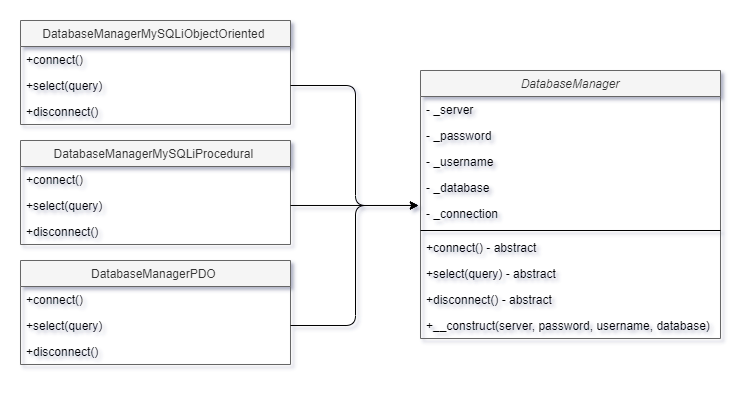
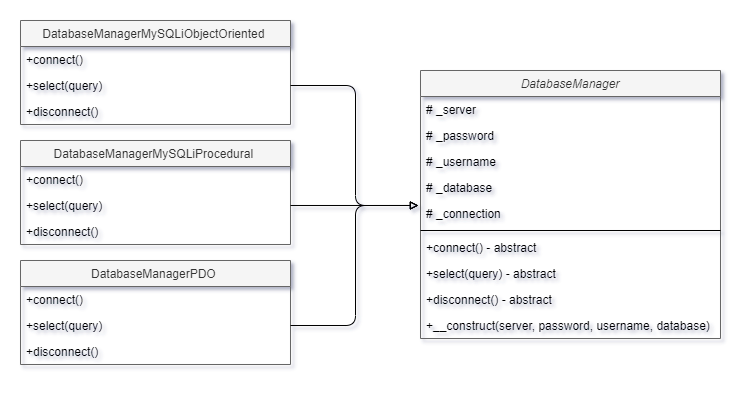
Vježba 3

diff --git a/vjezba-1-3/src/views/vjezba-2.vue b/vjezba-1-3/src/views/vjezba-2.vue
@@ -17,9 +17,9 @@
 import { defineComponent } from "vue";
 
 export default defineComponent({
-  name: "Home",
+  name: "vjezba-2",
   setup() {
-    const content = `<div style="color: rgb(171, 178, 191); background-color: rgb(40, 44, 52); font-family: Consolas, &quot;Courier New&quot;, monospace; line-height: 19px; white-space: pre;"><div style="color: rgb(0, 0, 0); background-color: rgb(255, 255, 255); line-height: 19px;"><div><span style="color: #800000;">&lt;?php</span></div><br><div><span style="color: #008000;">/*</span></div><br><div><span style="color: #008000;">&nbsp;&nbsp;Problem&nbsp;koji&nbsp;rješava&nbsp;ovaj&nbsp;primjer&nbsp;je&nbsp;stvaranje&nbsp;veze&nbsp;na&nbsp;bazu&nbsp;podataka&nbsp;(MySQL)&nbsp;i&nbsp;dohvaćanje&nbsp;podataka&nbsp;koristeći&nbsp;različite&nbsp;ugrađene&nbsp;PHP&nbsp;funkcionalnosti.</span></div><div><span style="color: #008000;">&nbsp;&nbsp;Srž&nbsp;LSP&nbsp;principa&nbsp;je&nbsp;u&nbsp;tome&nbsp;što&nbsp;se&nbsp;svaka&nbsp;od&nbsp;tih&nbsp;klasa&nbsp;može&nbsp;koristiti&nbsp;na&nbsp;mjestu&nbsp;bazne&nbsp;bez&nbsp;ikakvih&nbsp;problema&nbsp;u&nbsp;izvođenju&nbsp;rada.</span></div><br><div><span style="color: #008000;">*/</span></div><br><div><span style="color: #0000ff;">abstract</span>&nbsp;<span style="color: #0000ff;">class</span>&nbsp;DatabaseManager&nbsp;{</div><div>&nbsp;&nbsp;<span style="color: #0000ff;">private</span>&nbsp;<span style="color: #0000ff;">string</span>&nbsp;$_server&nbsp;=&nbsp;<span style="color: #a31515;">""</span>;</div><div>&nbsp;&nbsp;<span style="color: #0000ff;">private</span>&nbsp;<span style="color: #0000ff;">string</span>&nbsp;$_password&nbsp;=&nbsp;<span style="color: #a31515;">""</span>;</div><div>&nbsp;&nbsp;<span style="color: #0000ff;">private</span>&nbsp;<span style="color: #0000ff;">string</span>&nbsp;$_username&nbsp;=&nbsp;<span style="color: #a31515;">""</span>;</div><div>&nbsp;&nbsp;<span style="color: #0000ff;">private</span>&nbsp;<span style="color: #0000ff;">string</span>&nbsp;$_database&nbsp;=&nbsp;<span style="color: #a31515;">""</span>;</div><div>&nbsp;&nbsp;<span style="color: #0000ff;">private</span>&nbsp;$_connection&nbsp;=&nbsp;<span style="color: #0000ff;">null</span>;</div><div>&nbsp;&nbsp;</div><div>&nbsp;&nbsp;<span style="color: #0000ff;">abstract</span>&nbsp;<span style="color: #0000ff;">protected</span>&nbsp;<span style="color: #0000ff;">function</span>&nbsp;connect();</div><div>&nbsp;&nbsp;<span style="color: #0000ff;">abstract</span>&nbsp;<span style="color: #0000ff;">protected</span>&nbsp;<span style="color: #0000ff;">function</span>&nbsp;select(<span style="color: #0000ff;">string</span>&nbsp;$query);</div><div>&nbsp;&nbsp;<span style="color: #0000ff;">abstract</span>&nbsp;<span style="color: #0000ff;">protected</span>&nbsp;<span style="color: #0000ff;">function</span>&nbsp;disconnect();</div><div>&nbsp;&nbsp;</div><div>&nbsp;&nbsp;<span style="color: #0000ff;">public</span>&nbsp;<span style="color: #0000ff;">function</span>&nbsp;__construct(<span style="color: #0000ff;">string</span>&nbsp;$server,&nbsp;<span style="color: #0000ff;">string</span>&nbsp;$password,&nbsp;<span style="color: #0000ff;">string</span>&nbsp;$username,&nbsp;<span style="color: #0000ff;">string</span>&nbsp;$database)&nbsp;{</div><div>&nbsp;&nbsp;&nbsp;&nbsp;<span style="color: #0000ff;">$this</span>-&gt;_server&nbsp;=&nbsp;$server;</div><div>&nbsp;&nbsp;&nbsp;&nbsp;<span style="color: #0000ff;">$this</span>-&gt;_password&nbsp;=&nbsp;$password;</div><div>&nbsp;&nbsp;&nbsp;&nbsp;<span style="color: #0000ff;">$this</span>-&gt;_username&nbsp;=&nbsp;$username;</div><div>&nbsp;&nbsp;&nbsp;&nbsp;<span style="color: #0000ff;">$this</span>-&gt;_database&nbsp;=&nbsp;$database;</div><div>&nbsp;&nbsp;}</div><div>}</div><br><div><span style="color: #0000ff;">class</span>&nbsp;DatabaseManagerMySQLiObjectOriented&nbsp;<span style="color: #0000ff;">extends</span>&nbsp;DatabaseManager&nbsp;{</div><div>&nbsp;&nbsp;<span style="color: #0000ff;">public</span>&nbsp;<span style="color: #0000ff;">function</span>&nbsp;connect()&nbsp;{</div><div>&nbsp;&nbsp;&nbsp;&nbsp;<span style="color: #0000ff;">$this</span>-&gt;_connection&nbsp;=&nbsp;<span style="color: #0000ff;">new</span>&nbsp;mysqli(<span style="color: #0000ff;">$this</span>-&gt;_server,&nbsp;<span style="color: #0000ff;">$this</span>-&gt;_username,&nbsp;<span style="color: #0000ff;">$this</span>-&gt;_password,&nbsp;<span style="color: #0000ff;">$this</span>-&gt;_database);</div><div>&nbsp;&nbsp;}</div><div>&nbsp;&nbsp;<span style="color: #0000ff;">public</span>&nbsp;<span style="color: #0000ff;">function</span>&nbsp;select(<span style="color: #0000ff;">string</span>&nbsp;$query)&nbsp;{</div><div>&nbsp;&nbsp;&nbsp;&nbsp;<span style="color: #0000ff;">return</span>&nbsp;<span style="color: #0000ff;">$this</span>-&gt;_connection-&gt;query($query);</div><div>&nbsp;&nbsp;}</div><div>&nbsp;&nbsp;<span style="color: #0000ff;">public</span>&nbsp;<span style="color: #0000ff;">function</span>&nbsp;disconnect()&nbsp;{</div><div>&nbsp;&nbsp;&nbsp;&nbsp;<span style="color: #0000ff;">$this</span>-&gt;_connection-&gt;close();</div><div>&nbsp;&nbsp;}</div><div>}</div><br><div><span style="color: #0000ff;">class</span>&nbsp;DatabaseManagerMySQLiProcedural&nbsp;<span style="color: #0000ff;">extends</span>&nbsp;DatabaseManager&nbsp;{</div><div>&nbsp;&nbsp;<span style="color: #0000ff;">public</span>&nbsp;<span style="color: #0000ff;">function</span>&nbsp;connect()&nbsp;{</div><div>&nbsp;&nbsp;&nbsp;&nbsp;<span style="color: #0000ff;">$this</span>-&gt;_connection&nbsp;=&nbsp;mysqli_connect(<span style="color: #0000ff;">$this</span>-&gt;_server,&nbsp;<span style="color: #0000ff;">$this</span>-&gt;_username,&nbsp;<span style="color: #0000ff;">$this</span>-&gt;_password,&nbsp;<span style="color: #0000ff;">$this</span>-&gt;_database);</div><div>&nbsp;&nbsp;}</div><div>&nbsp;&nbsp;<span style="color: #0000ff;">public</span>&nbsp;<span style="color: #0000ff;">function</span>&nbsp;select(<span style="color: #0000ff;">string</span>&nbsp;$query)&nbsp;{</div><div>&nbsp;&nbsp;&nbsp;&nbsp;<span style="color: #0000ff;">return</span>&nbsp;mysqli_query(<span style="color: #0000ff;">$this</span>-&gt;_connection,&nbsp;$query);</div><div>&nbsp;&nbsp;}</div><div>&nbsp;&nbsp;<span style="color: #0000ff;">public</span>&nbsp;<span style="color: #0000ff;">function</span>&nbsp;disconnect()&nbsp;{</div><div>&nbsp;&nbsp;&nbsp;&nbsp;mysqli_close(<span style="color: #0000ff;">$this</span>-&gt;_connection);</div><div>&nbsp;&nbsp;}</div><div>}</div><br><div><span style="color: #0000ff;">class</span>&nbsp;DatabaseManagerPDO&nbsp;<span style="color: #0000ff;">extends</span>&nbsp;DatabaseManager&nbsp;{</div><div>&nbsp;&nbsp;<span style="color: #0000ff;">public</span>&nbsp;<span style="color: #0000ff;">function</span>&nbsp;connect()&nbsp;{</div><div>&nbsp;&nbsp;&nbsp;&nbsp;<span style="color: #0000ff;">$this</span>-&gt;_connection&nbsp;=&nbsp;<span style="color: #0000ff;">new</span>&nbsp;PDO(<span style="color: #a31515;">"mysql:host=$this</span>-&gt;<span style="color: #a31515;">_server;dbname=$this</span>-&gt;<span style="color: #a31515;">_database"</span>,&nbsp;<span style="color: #0000ff;">$this</span>-&gt;_username,&nbsp;<span style="color: #0000ff;">$this</span>-&gt;_password);</div><div>&nbsp;&nbsp;&nbsp;&nbsp;<span style="color: #0000ff;">$this</span>-&gt;_connection-&gt;setAttribute(PDO::ATTR_ERRMODE,&nbsp;PDO::ERRMODE_EXCEPTION);</div><div>&nbsp;&nbsp;}</div><div>&nbsp;&nbsp;<span style="color: #0000ff;">public</span>&nbsp;<span style="color: #0000ff;">function</span>&nbsp;select(<span style="color: #0000ff;">string</span>&nbsp;$query)&nbsp;{</div><div>&nbsp;&nbsp;&nbsp;&nbsp;$stmt&nbsp;=&nbsp;<span style="color: #0000ff;">$this</span>-&gt;_connection-&gt;prepare($query);</div><div>&nbsp;&nbsp;&nbsp;&nbsp;$stmt-&gt;execute();</div><div>&nbsp;&nbsp;&nbsp;&nbsp;$result&nbsp;=&nbsp;$stmt-&gt;setFetchMode(PDO::FETCH_ASSOC);</div><div>&nbsp;&nbsp;&nbsp;&nbsp;<span style="color: #0000ff;">return</span>&nbsp;$result;</div><div>&nbsp;&nbsp;}</div><div>&nbsp;&nbsp;<span style="color: #0000ff;">public</span>&nbsp;<span style="color: #0000ff;">function</span>&nbsp;disconnect()&nbsp;{</div><div>&nbsp;&nbsp;&nbsp;&nbsp;<span style="color: #0000ff;">$this</span>-&gt;_connection&nbsp;=&nbsp;<span style="color: #0000ff;">null</span>;</div><div>&nbsp;&nbsp;}</div><div>}</div><br><div>$db&nbsp;=&nbsp;<span style="color: #0000ff;">new</span>&nbsp;DatabaseManagerMySQLiObjectOriented(<span style="color: #a31515;">"server"</span>,&nbsp;<span style="color: #a31515;">"password"</span>,&nbsp;<span style="color: #a31515;">"username"</span>,&nbsp;<span style="color: #a31515;">"database"</span>);</div><div>$db-&gt;connect();</div><div>$res&nbsp;=&nbsp;$db-&gt;select(<span style="color: #a31515;">"</span><span style="color: #0000ff;">SELECT</span><span style="color: #a31515;">&nbsp;</span>*<span style="color: #a31515;">&nbsp;</span><span style="color: #0000ff;">FROM</span><span style="color: #a31515;">&nbsp;users</span><span style="color: #a31515;">"</span>);</div><div>$db-&gt;disconnect();</div><br><div><span style="color: #800000;">?</span><span style="color: #800000;">&gt;</span></div></div></div>`;
+    const content = `<div style="color: rgb(171, 178, 191); background-color: rgb(40, 44, 52); font-family: Consolas, &quot;Courier New&quot;, monospace; line-height: 19px; white-space: pre;"><div style="color: rgb(0, 0, 0); background-color: rgb(255, 255, 255); line-height: 19px;"><div><span style="color: #800000;">&lt;?php</span></div><br><div><span style="color: #008000;">/*</span></div><br><div><span style="color: #008000;">&nbsp;&nbsp;Problem&nbsp;koji&nbsp;rješava&nbsp;ovaj&nbsp;primjer&nbsp;je&nbsp;stvaranje&nbsp;veze&nbsp;na&nbsp;bazu&nbsp;podataka&nbsp;(MySQL)&nbsp;i&nbsp;dohvaćanje&nbsp;podataka&nbsp;koristeći&nbsp;različite&nbsp;ugrađene&nbsp;PHP&nbsp;funkcionalnosti.</span></div><div><span style="color: #008000;">&nbsp;&nbsp;Srž&nbsp;LSP&nbsp;principa&nbsp;je&nbsp;u&nbsp;tome&nbsp;što&nbsp;se&nbsp;svaka&nbsp;od&nbsp;tih&nbsp;klasa&nbsp;može&nbsp;koristiti&nbsp;na&nbsp;mjestu&nbsp;bazne&nbsp;bez&nbsp;ikakvih&nbsp;problema&nbsp;u&nbsp;izvođenju&nbsp;rada.</span></div><br><div><span style="color: #008000;">*/</span></div><br><div><span style="color: #0000ff;">abstract</span>&nbsp;<span style="color: #0000ff;">class</span>&nbsp;DatabaseManager&nbsp;{</div><div>&nbsp;&nbsp;<span style="color: #0000ff;">protected</span>&nbsp;<span style="color: #0000ff;">string</span>&nbsp;$_server&nbsp;=&nbsp;<span style="color: #a31515;">""</span>;</div><div>&nbsp;&nbsp;<span style="color: #0000ff;">protected</span>&nbsp;<span style="color: #0000ff;">string</span>&nbsp;$_password&nbsp;=&nbsp;<span style="color: #a31515;">""</span>;</div><div>&nbsp;&nbsp;<span style="color: #0000ff;">protected</span>&nbsp;<span style="color: #0000ff;">string</span>&nbsp;$_username&nbsp;=&nbsp;<span style="color: #a31515;">""</span>;</div><div>&nbsp;&nbsp;<span style="color: #0000ff;">protected</span>&nbsp;<span style="color: #0000ff;">string</span>&nbsp;$_database&nbsp;=&nbsp;<span style="color: #a31515;">""</span>;</div><div>&nbsp;&nbsp;<span style="color: #0000ff;">protected</span>&nbsp;$_connection&nbsp;=&nbsp;<span style="color: #0000ff;">null</span>;</div><div>&nbsp;&nbsp;</div><div>&nbsp;&nbsp;<span style="color: #0000ff;">abstract</span>&nbsp;<span style="color: #0000ff;">public</span>&nbsp;<span style="color: #0000ff;">function</span>&nbsp;connect();</div><div>&nbsp;&nbsp;<span style="color: #0000ff;">abstract</span>&nbsp;<span style="color: #0000ff;">public</span>&nbsp;<span style="color: #0000ff;">function</span>&nbsp;select(<span style="color: #0000ff;">string</span>&nbsp;$query);</div><div>&nbsp;&nbsp;<span style="color: #0000ff;">abstract</span>&nbsp;<span style="color: #0000ff;">public</span>&nbsp;<span style="color: #0000ff;">function</span>&nbsp;disconnect();</div><div>&nbsp;&nbsp;</div><div>&nbsp;&nbsp;<span style="color: #0000ff;">public</span>&nbsp;<span style="color: #0000ff;">function</span>&nbsp;__construct(<span style="color: #0000ff;">string</span>&nbsp;$server,&nbsp;<span style="color: #0000ff;">string</span>&nbsp;$password,&nbsp;<span style="color: #0000ff;">string</span>&nbsp;$username,&nbsp;<span style="color: #0000ff;">string</span>&nbsp;$database)&nbsp;{</div><div>&nbsp;&nbsp;&nbsp;&nbsp;<span style="color: #0000ff;">$this</span>-&gt;_server&nbsp;=&nbsp;$server;</div><div>&nbsp;&nbsp;&nbsp;&nbsp;<span style="color: #0000ff;">$this</span>-&gt;_password&nbsp;=&nbsp;$password;</div><div>&nbsp;&nbsp;&nbsp;&nbsp;<span style="color: #0000ff;">$this</span>-&gt;_username&nbsp;=&nbsp;$username;</div><div>&nbsp;&nbsp;&nbsp;&nbsp;<span style="color: #0000ff;">$this</span>-&gt;_database&nbsp;=&nbsp;$database;</div><div>&nbsp;&nbsp;}</div><div>}</div><br><div><span style="color: #0000ff;">class</span>&nbsp;DatabaseManagerMySQLiObjectOriented&nbsp;<span style="color: #0000ff;">extends</span>&nbsp;DatabaseManager&nbsp;{</div><div>&nbsp;&nbsp;<span style="color: #0000ff;">public</span>&nbsp;<span style="color: #0000ff;">function</span>&nbsp;connect()&nbsp;{</div><div>&nbsp;&nbsp;&nbsp;&nbsp;<span style="color: #0000ff;">$this</span>-&gt;_connection&nbsp;=&nbsp;<span style="color: #0000ff;">new</span>&nbsp;mysqli(<span style="color: #0000ff;">$this</span>-&gt;_server,&nbsp;<span style="color: #0000ff;">$this</span>-&gt;_username,&nbsp;<span style="color: #0000ff;">$this</span>-&gt;_password,&nbsp;<span style="color: #0000ff;">$this</span>-&gt;_database);</div><div>&nbsp;&nbsp;}</div><div>&nbsp;&nbsp;<span style="color: #0000ff;">public</span>&nbsp;<span style="color: #0000ff;">function</span>&nbsp;select(<span style="color: #0000ff;">string</span>&nbsp;$query)&nbsp;{</div><div>&nbsp;&nbsp;&nbsp;&nbsp;<span style="color: #0000ff;">return</span>&nbsp;<span style="color: #0000ff;">$this</span>-&gt;_connection-&gt;query($query);</div><div>&nbsp;&nbsp;}</div><div>&nbsp;&nbsp;<span style="color: #0000ff;">public</span>&nbsp;<span style="color: #0000ff;">function</span>&nbsp;disconnect()&nbsp;{</div><div>&nbsp;&nbsp;&nbsp;&nbsp;<span style="color: #0000ff;">$this</span>-&gt;_connection-&gt;close();</div><div>&nbsp;&nbsp;}</div><div>}</div><br><div><span style="color: #0000ff;">class</span>&nbsp;DatabaseManagerMySQLiProcedural&nbsp;<span style="color: #0000ff;">extends</span>&nbsp;DatabaseManager&nbsp;{</div><div>&nbsp;&nbsp;<span style="color: #0000ff;">public</span>&nbsp;<span style="color: #0000ff;">function</span>&nbsp;connect()&nbsp;{</div><div>&nbsp;&nbsp;&nbsp;&nbsp;<span style="color: #0000ff;">$this</span>-&gt;_connection&nbsp;=&nbsp;mysqli_connect(<span style="color: #0000ff;">$this</span>-&gt;_server,&nbsp;<span style="color: #0000ff;">$this</span>-&gt;_username,&nbsp;<span style="color: #0000ff;">$this</span>-&gt;_password,&nbsp;<span style="color: #0000ff;">$this</span>-&gt;_database);</div><div>&nbsp;&nbsp;}</div><div>&nbsp;&nbsp;<span style="color: #0000ff;">public</span>&nbsp;<span style="color: #0000ff;">function</span>&nbsp;select(<span style="color: #0000ff;">string</span>&nbsp;$query)&nbsp;{</div><div>&nbsp;&nbsp;&nbsp;&nbsp;<span style="color: #0000ff;">return</span>&nbsp;mysqli_query(<span style="color: #0000ff;">$this</span>-&gt;_connection,&nbsp;$query);</div><div>&nbsp;&nbsp;}</div><div>&nbsp;&nbsp;<span style="color: #0000ff;">public</span>&nbsp;<span style="color: #0000ff;">function</span>&nbsp;disconnect()&nbsp;{</div><div>&nbsp;&nbsp;&nbsp;&nbsp;mysqli_close(<span style="color: #0000ff;">$this</span>-&gt;_connection);</div><div>&nbsp;&nbsp;}</div><div>}</div><br><div><span style="color: #0000ff;">class</span>&nbsp;DatabaseManagerPDO&nbsp;<span style="color: #0000ff;">extends</span>&nbsp;DatabaseManager&nbsp;{</div><div>&nbsp;&nbsp;<span style="color: #0000ff;">public</span>&nbsp;<span style="color: #0000ff;">function</span>&nbsp;connect()&nbsp;{</div><div>&nbsp;&nbsp;&nbsp;&nbsp;<span style="color: #0000ff;">$this</span>-&gt;_connection&nbsp;=&nbsp;<span style="color: #0000ff;">new</span>&nbsp;PDO(<span style="color: #a31515;">"mysql:host=$this</span>-&gt;<span style="color: #a31515;">_server;dbname=$this</span>-&gt;<span style="color: #a31515;">_database"</span>,&nbsp;<span style="color: #0000ff;">$this</span>-&gt;_username,&nbsp;<span style="color: #0000ff;">$this</span>-&gt;_password);</div><div>&nbsp;&nbsp;&nbsp;&nbsp;<span style="color: #0000ff;">$this</span>-&gt;_connection-&gt;setAttribute(PDO::ATTR_ERRMODE,&nbsp;PDO::ERRMODE_EXCEPTION);</div><div>&nbsp;&nbsp;}</div><div>&nbsp;&nbsp;<span style="color: #0000ff;">public</span>&nbsp;<span style="color: #0000ff;">function</span>&nbsp;select(<span style="color: #0000ff;">string</span>&nbsp;$query)&nbsp;{</div><div>&nbsp;&nbsp;&nbsp;&nbsp;$stmt&nbsp;=&nbsp;<span style="color: #0000ff;">$this</span>-&gt;_connection-&gt;prepare($query);</div><div>&nbsp;&nbsp;&nbsp;&nbsp;$stmt-&gt;execute();</div><div>&nbsp;&nbsp;&nbsp;&nbsp;$result&nbsp;=&nbsp;$stmt-&gt;setFetchMode(PDO::FETCH_ASSOC);</div><div>&nbsp;&nbsp;&nbsp;&nbsp;<span style="color: #0000ff;">return</span>&nbsp;$result;</div><div>&nbsp;&nbsp;}</div><div>&nbsp;&nbsp;<span style="color: #0000ff;">public</span>&nbsp;<span style="color: #0000ff;">function</span>&nbsp;disconnect()&nbsp;{</div><div>&nbsp;&nbsp;&nbsp;&nbsp;<span style="color: #0000ff;">$this</span>-&gt;_connection&nbsp;=&nbsp;<span style="color: #0000ff;">null</span>;</div><div>&nbsp;&nbsp;}</div><div>}</div><br><div>$db&nbsp;=&nbsp;<span style="color: #0000ff;">new</span>&nbsp;DatabaseManagerMySQLiObjectOriented(<span style="color: #a31515;">"server"</span>,&nbsp;<span style="color: #a31515;">"password"</span>,&nbsp;<span style="color: #a31515;">"username"</span>,&nbsp;<span style="color: #a31515;">"database"</span>);</div><div>$db-&gt;connect();</div><div>$res&nbsp;=&nbsp;$db-&gt;select(<span style="color: #a31515;">"</span><span style="color: #0000ff;">SELECT</span><span style="color: #a31515;">&nbsp;</span>*<span style="color: #a31515;">&nbsp;</span><span style="color: #0000ff;">FROM</span><span style="color: #a31515;">&nbsp;users</span><span style="color: #a31515;">"</span>);</div><div>$db-&gt;disconnect();</div><br><div><span style="color: #800000;">?</span><span style="color: #800000;">&gt;</span></div></div></div>`;
     return { content };
   }
 });

diff --git a/vjezba-1-3/src/views/vjezba-3.vue b/vjezba-1-3/src/views/vjezba-3.vue
@@ -7,9 +7,183 @@
 </template>
 
 <script lang="ts">
-import { defineComponent } from "vue";
+import { defineComponent, reactive, onMounted } from "vue";
+
+class ClockController {
+  incrementHours() {
+    //
+  }
+  incrementMinutes() {
+    //
+  }
+  incrementSeconds() {
+    //
+  }
+  stop() {
+    //
+  }
+  doNothing() {
+    // Do nothing
+  }
+}
+
+interface ClockState {
+  button1(clock: Clock): void;
+  button2(clock: Clock): void;
+  button1And2(clock: Clock): void;
+}
+
+class BlinkHoursClockState implements ClockState {
+  button1(clock: Clock) {
+    clock.setBlinkingSeconds();
+  }
+  button2(clock: Clock) {
+    clock.incrementHours();
+  }
+  button1And2(clock: Clock) {
+    clock.setStopped();
+    clock.stop();
+  }
+}
+
+class BlinkMinutesClockState implements ClockState {
+  button1(clock: Clock) {
+    clock.setBlinkingSeconds();
+  }
+  button2(clock: Clock) {
+    clock.incrementMinutes();
+  }
+  button1And2(clock: Clock) {
+    clock.setStopped();
+    clock.stop();
+  }
+}
+
+class BlinkSecondsClockState implements ClockState {
+  button1(clock: Clock) {
+    clock.doNothing();
+  }
+  button2(clock: Clock) {
+    clock.incrementSeconds();
+  }
+  button1And2(clock: Clock) {
+    clock.setStopped();
+    clock.stop();
+  }
+}
+
+class StoppedClockState implements ClockState {
+  button1(clock: Clock) {
+    clock.doNothing();
+  }
+  button2(clock: Clock) {
+    clock.doNothing();
+  }
+  button1And2(clock: Clock) {
+    clock.doNothing();
+  }
+}
+
+class Clock {
+  private _blinkHoursClockState?: BlinkHoursClockState | null = new BlinkHoursClockState();
+  private _blinkMinutesClockState?: BlinkMinutesClockState | null = new BlinkMinutesClockState();
+  private _blinkSecondsClockState?: BlinkSecondsClockState | null = new BlinkSecondsClockState();
+  private _stoppedClockState?: StoppedClockState | null = new StoppedClockState();
+
+  private _controller?: ClockController | null;
+  private _state?: ClockState | null;
+
+  // Checker methods
+  isBlinkingHours() {
+    return this._state == this._blinkHoursClockState;
+  }
+
+  isBlinkingMinutes() {
+    return this._state == this._blinkMinutesClockState;
+  }
+
+  isBlinkingSeconds() {
+    return this._state == this._blinkSecondsClockState;
+  }
+
+  isStopped() {
+    return this._state == this._stoppedClockState;
+  }
+
+  // State setters
+  setBlinkingMinutes() {
+    this._state = this._blinkMinutesClockState;
+  }
+
+  setBlinkingSeconds() {
+    this._state = this._blinkSecondsClockState;
+  }
+
+  setStopped() {
+    this._state = this._stoppedClockState;
+  }
+
+  // Inputs
+  button1(): void {
+    this._state?.button1(this);
+  }
+
+  button2(): void {
+    this._state?.button2(this);
+  }
+
+  button1And2(): void {
+    this._state?.button1And2(this);
+  }
+
+  // Actions
+  incrementHours() {
+    this._controller?.incrementHours();
+  }
+
+  incrementMinutes() {
+    this._controller?.incrementMinutes();
+  }
+
+  incrementSeconds() {
+    this._controller?.incrementSeconds();
+  }
+
+  stop() {
+    this._controller?.stop();
+  }
+
+  doNothing(): void {
+    this._controller?.doNothing();
+  }
+
+  constructor(action: ClockController) {
+    this._controller = action;
+    this._state = new BlinkHoursClockState();
+  }
+}
+
+interface State {
+  clock?: Clock | null;
+  clockController?: ClockController | null;
+  interval: number;
+}
 
 export default defineComponent({
-  name: "Home"
+  name: "vjezba-3",
+  setup() {
+    const state: State = reactive({
+      clock: null,
+      clockController: null,
+      interval: -1
+    });
+
+    onMounted(() => {
+      state.clockController = new ClockController();
+      state.clock = new Clock(state.clockController);
+    });
+
+    return { state };
+  }
 });
 </script>

diff --git a/vjezba-1-3/src/router/index.ts b/vjezba-1-3/src/router/index.ts
@@ -1,35 +1,41 @@
-import { createRouter, createWebHistory, RouteRecordRaw } from 'vue-router'
-import vjezba1sat from '../views/vjezba-1-sat.vue'
-import vjezba1dizalo from '../views/vjezba-1-dizalo.vue'
-import vjezba2 from '../views/vjezba-2.vue'
-import vjezba3 from '../views/vjezba-3.vue'
+import { createRouter, createWebHistory, RouteRecordRaw } from "vue-router";
+import vjezba1sat from "../views/vjezba-1-sat.vue";
+import vjezba1dizalo from "../views/vjezba-1-dizalo.vue";
+import vjezba2 from "../views/vjezba-2.vue";
+import vjezba3 from "../views/vjezba-3.vue";
+import vjezba4 from "../views/vjezba-4.vue";
 
 const routes: Array<RouteRecordRaw> = [
   {
-    path: '/',
-    name: 'vjezba-1-sat',
+    path: "/",
+    name: "vjezba-1-sat",
     component: vjezba1sat
   },
   {
-    path: '/vjezba-1-dizalo',
-    name: 'vjezba-1-dizalo',
+    path: "/vjezba-1-dizalo",
+    name: "vjezba-1-dizalo",
     component: vjezba1dizalo
   },
   {
-    path: '/vjezba-2',
-    name: 'vjezba-2',
+    path: "/vjezba-2",
+    name: "vjezba-2",
     component: vjezba2
   },
   {
-    path: '/vjezba-3',
-    name: 'vjezba-3',
+    path: "/vjezba-3",
+    name: "vjezba-3",
     component: vjezba3
+  },
+  {
+    path: "/vjezba-4",
+    name: "vjezba-4",
+    component: vjezba4
   }
-]
+];
 
 const router = createRouter({
   history: createWebHistory(process.env.BASE_URL),
   routes
-})
+});
 
-export default router
+export default router;

diff --git a/vjezba-1-3/src/views/vjezba-4.vue b/vjezba-1-3/src/views/vjezba-4.vue
@@ -1,0 +1,15 @@
+<template>
+  <div class="row text-center no-gutters">
+    <div class="col-12 mt-5">
+      <img :src="require('@/assets/elevator/elevator-diagram-empty.png')" />
+    </div>
+  </div>
+</template>
+
+<script lang="ts">
+import { defineComponent } from "vue";
+
+export default defineComponent({
+  name: "vjezba-4"
+});
+</script>

diff --git a/vjezba-2/LSP.php b/vjezba-2/LSP.php
@@ -8,15 +8,15 @@
 */
 
 abstract class DatabaseManager {
-	private string $_server = "";
-	private string $_password = "";
-	private string $_username = "";
-	private string $_database = "";
-	private $_connection = null;
+	protected string $_server = "";
+	protected string $_password = "";
+	protected string $_username = "";
+	protected string $_database = "";
+	protected $_connection = null;
 	
-	abstract protected function connect();
-	abstract protected function select(string $query);
-	abstract protected function disconnect();
+	abstract public function connect();
+	abstract public function select(string $query);
+	abstract public function disconnect();
 	
 	public function __construct(string $server, string $password, string $username, string $database) {
 		$this->_server = $server;
